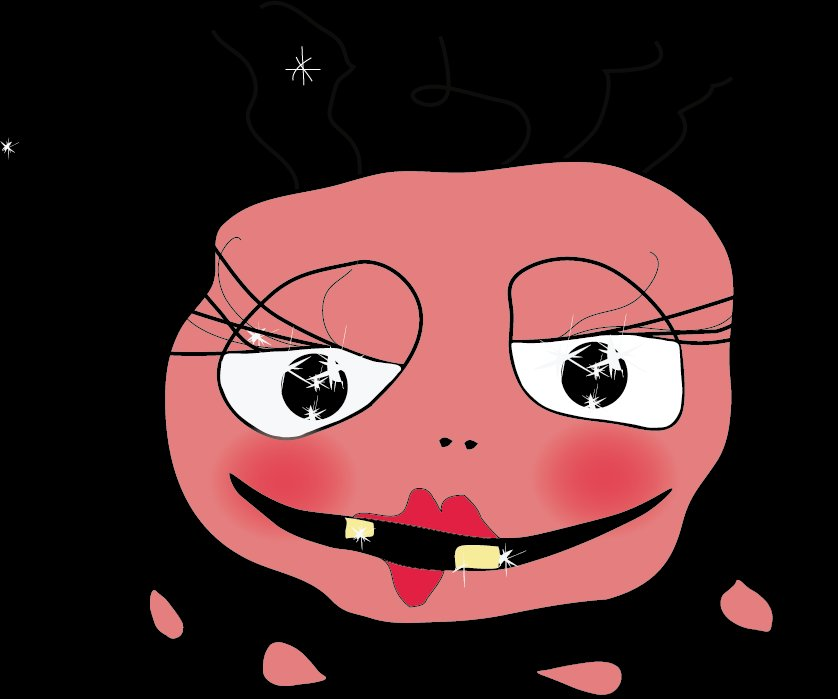
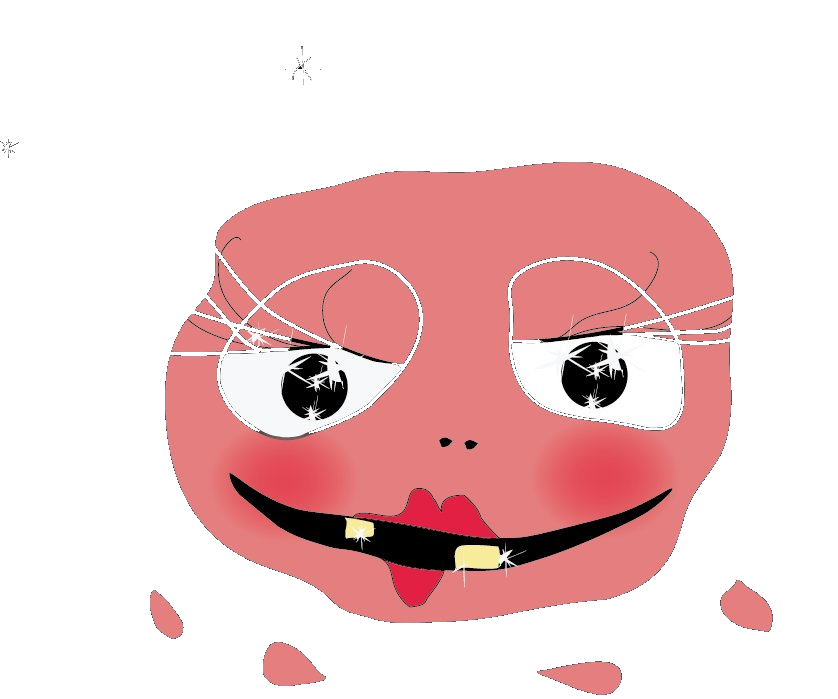
Ny kärleksbacillen-bild + iOS resize-fix
- Uppdaterad karleksbacillen.jpg och transparent PNG i spel_Love Bug
- Uppdaterad karleksbacillen_transparent.png i karleksbacillen-spelet
- iOS-fix: resize() anropar inte längre initLevel() (förhindrar att spelet nollställs när Safari adressfält rör sig)
- Debounce 200ms + visualViewport API för stabil hantering av skärmstorlek

diff --git a/karleksbacillen-spelet/index.html b/karleksbacillen-spelet/index.html
@@ -179,7 +179,13 @@ function resize(){
   const wrapW=wrap.clientWidth, wrapH=wrap.clientHeight;
   canvas.width=wrapW*dpr; canvas.height=wrapH*dpr;
   applyCanvasSize();
-  ctx.scale(dpr,dpr); initLevel();
+  ctx.scale(dpr,dpr);
+}
+
+let _resizeTimer;
+function onResize(){
+  clearTimeout(_resizeTimer);
+  _resizeTimer=setTimeout(resize, 200);
 }
 
 function getPos(e){
@@ -430,7 +436,11 @@ canvas.addEventListener('mouseup',onUp);
 canvas.addEventListener('touchstart',onDown,{passive:false});
 canvas.addEventListener('touchmove',onMove,{passive:false});
 canvas.addEventListener('touchend',onUp,{passive:false});
-window.addEventListener('resize',resize);
+if(window.visualViewport){
+  window.visualViewport.addEventListener('resize',onResize);
+} else {
+  window.addEventListener('resize',onResize);
+}
 resize();
 </script>
 </body>